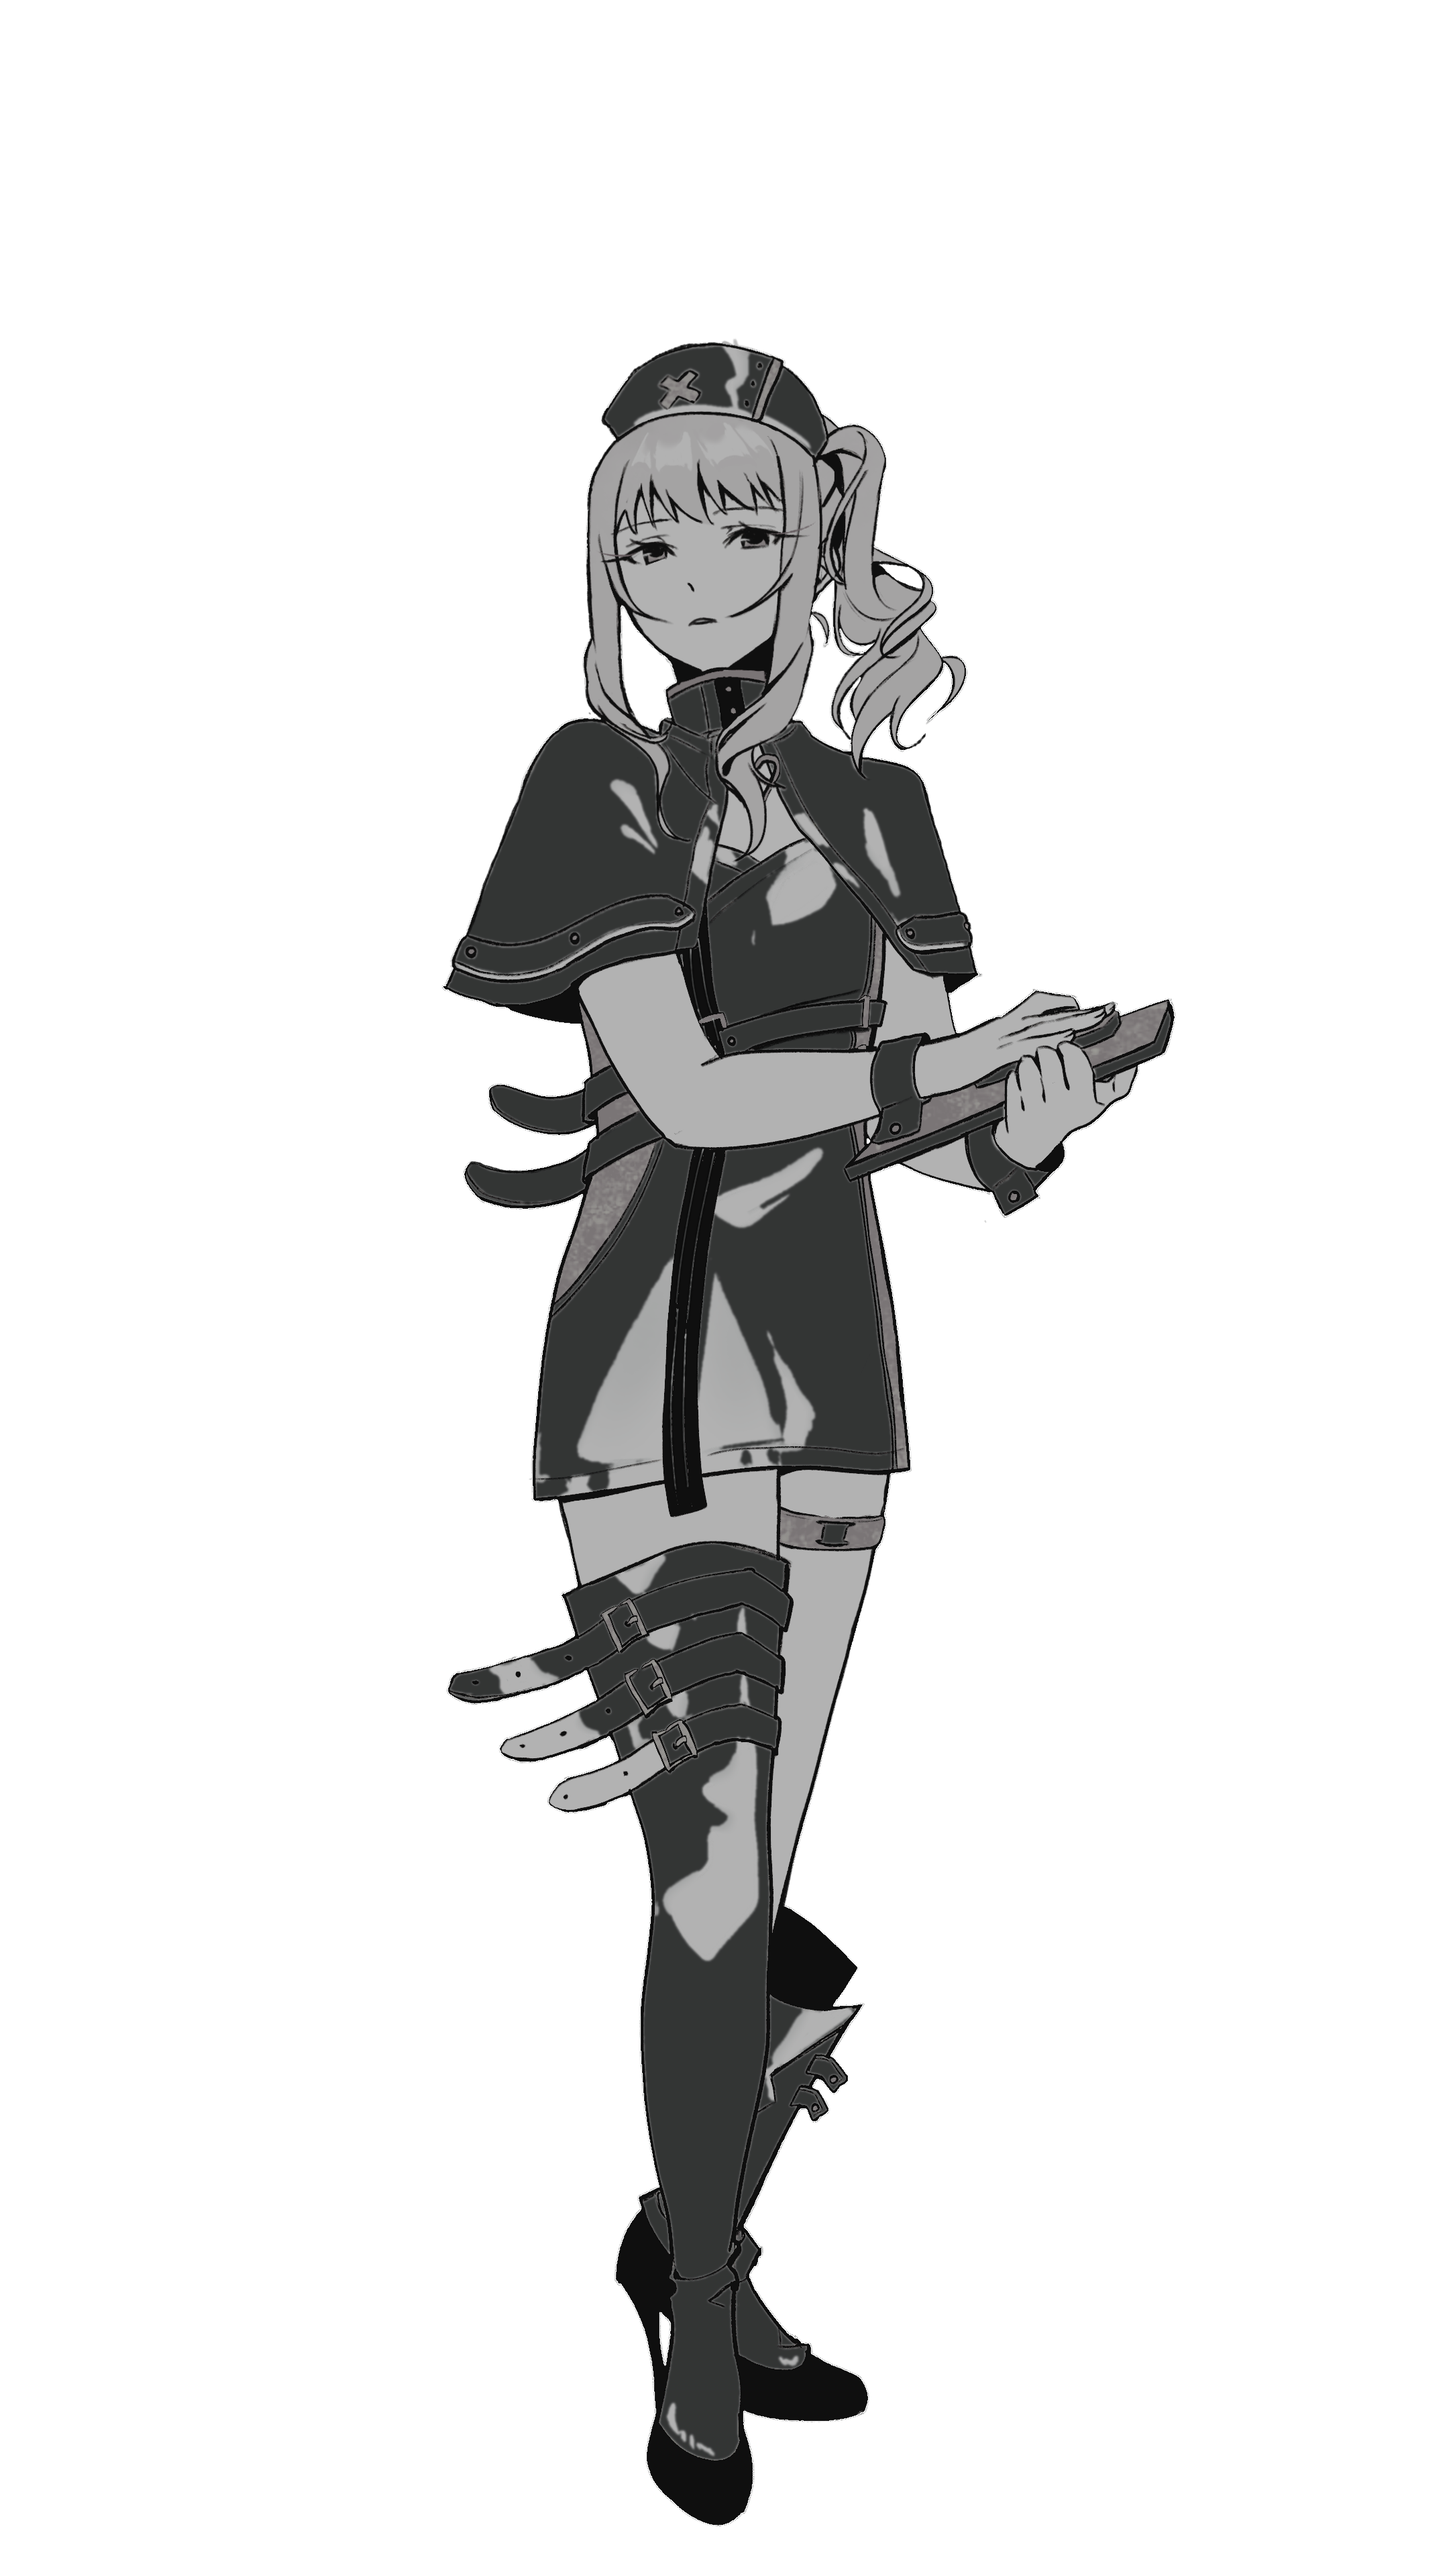
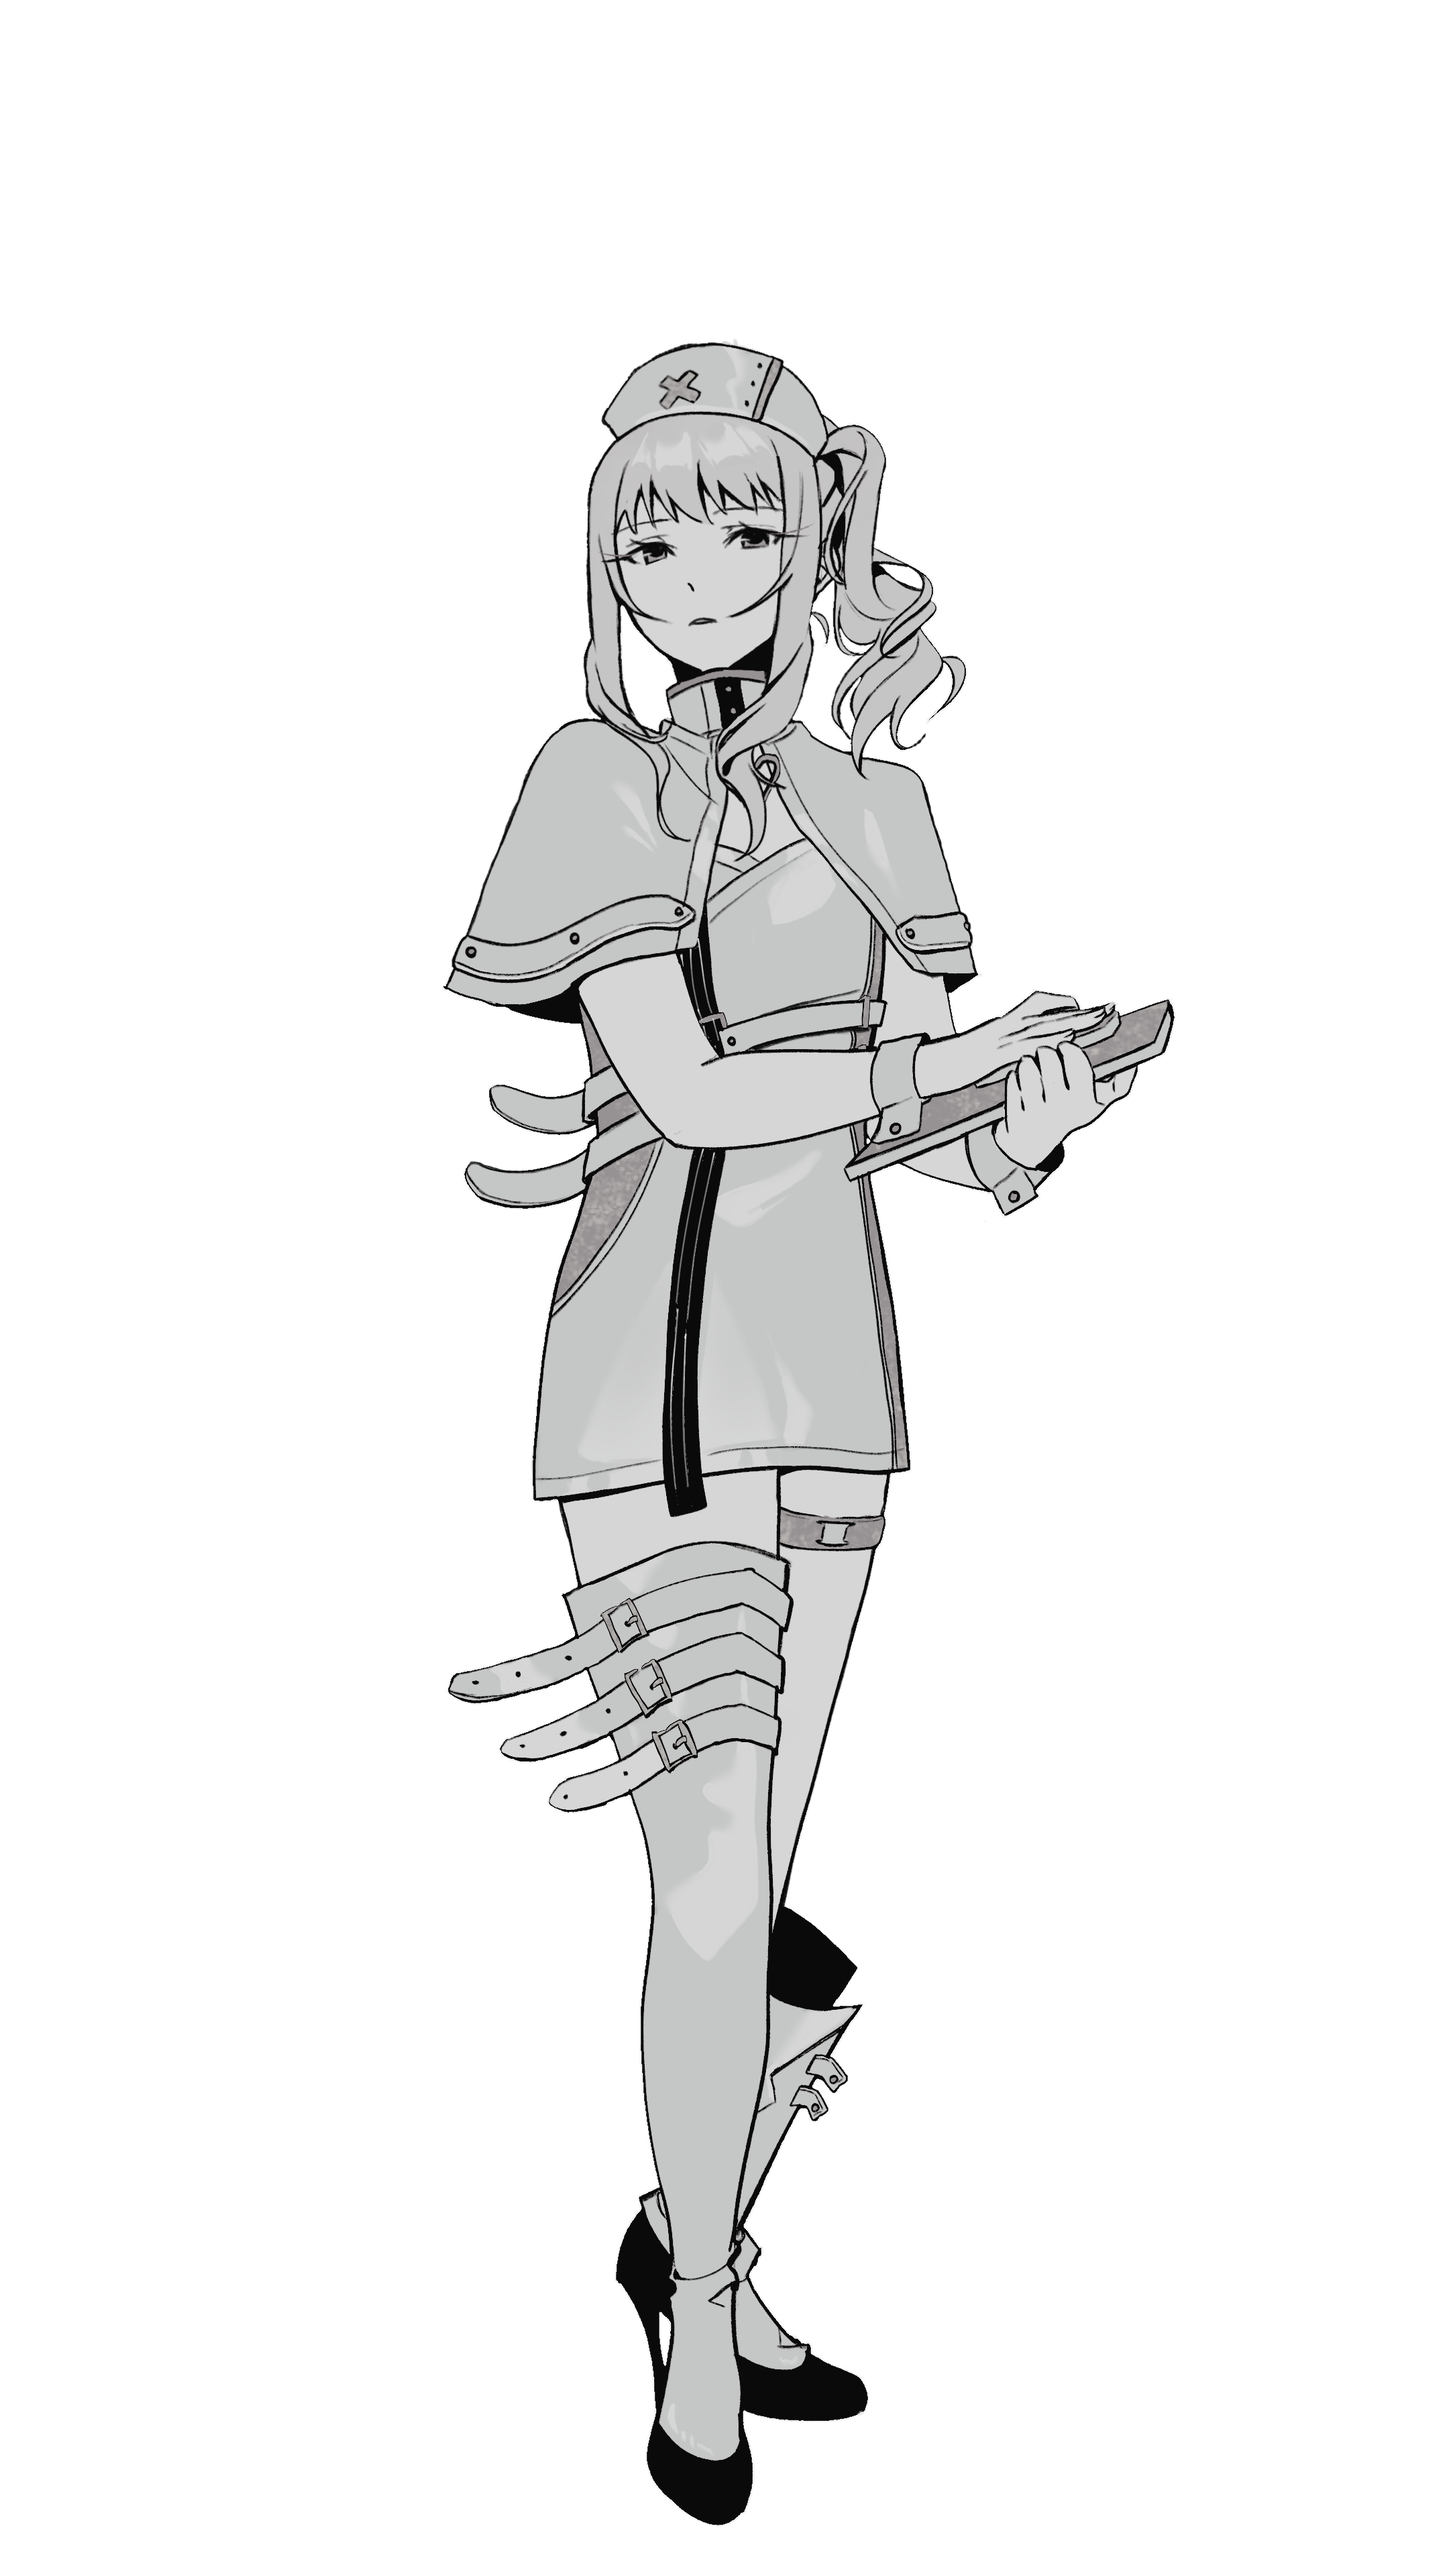
Intro: garments keep their own tone; darker wall for figure/background contrast; lyrics moved onto the wall; contrast metric + spike-based cut detection
Claude-Session: https://claude.ai/code/session_015Tjs1iXMuiLWLL16YXiPW9

Changed region(s): [[0.3102, 0.125, 0.8065, 0.9688]]

diff --git a/web/v2/engine.js b/web/v2/engine.js
@@ -99,7 +99,7 @@ function drawThread2(ctx, shot, cr, t) {
 function drawWall(ctx, shot, cr) {
   const img = shot.dof ? A2.wallBlur : A2.wall;
   const z = 1.0 + 0.06 * cr.k, dx = -180 - 120 * cr.k * (shot.pan || 1), dy = -120;
-  ctx.fillStyle = shot.dark ? "#5e6061" : shot.keyLight ? "#76787a" : "#8a8c8d"; ctx.fillRect(-100, -100, W + 200, H + 200);       // wall_gray token
+  ctx.fillStyle = shot.dark ? "#5e6061" : shot.keyLight ? "#55575a" : "#8a8c8d"; ctx.fillRect(-100, -100, W + 200, H + 200);       // wall_gray token
   ctx.save(); ctx.globalCompositeOperation = "overlay"; ctx.globalAlpha = 0.75;
   ctx.drawImage(img, dx, dy, 2400 * z, 1350 * z); ctx.restore();
 }
@@ -202,14 +202,14 @@ function buildScenes() {
         { t0: s(8), t1: 20.0, layers: [N()], c0: [1050, 880, 1560], c1: [1042, 868, 1460], keyLight: true, longShadow: true, r0: 0.3, r1: -0.2, fx: ["leak"] },
       ],
       text: {
-        1: { lvl: "A", layout: "vert", x: 1080, y: 345, size: 29, cols: ["僕は最上最愛の"], holdUntil: 2 },
-        2: { lvl: "A", layout: "vert", x: 1080 - 29 * 1.3, y: 345, size: 29, gap: 1.3, cols: ["この世界に産み落とされた", "モンスター"] },
-        3: { lvl: "A", layout: "vert", x: 1080, y: 345, size: 29, gap: 1.3, cols: ["そこは", "従順傀儡の"] },
-        4: { lvl: "A", layout: "vert", x: 1430, y: 345, size: 29, gap: 1.3, cols: ["嫌な時代に", "振り落とされたもんだ"] },
-        5: { lvl: "A", layout: "vert", x: 1430, y: 345, size: 29, gap: 1.3, cols: ["赤い糸を", "放ったスパイダー"] },
-        6: { lvl: "A", layout: "vert", x: 1225, y: 345, size: 29, cols: ["予想通り絡まるハンター"], holdUntil: 7 },
-        7: { lvl: "A", layout: "vert", x: 1225 - 29 * 1.3, y: 345, size: 29, gap: 1.3, cols: ["どうか", "一生淡々と"] },
-        8: { lvl: "A", layout: "vert", x: 1480, y: 345, size: 29, gap: 1.3, cols: ["生きるだけの", "理由をください", "ドクター"] },
+        1: { lvl: "A", layout: "vert", x: 470, y: 345, size: 29, cols: ["僕は最上最愛の"], holdUntil: 2 },
+        2: { lvl: "A", layout: "vert", x: 470 - 29 * 1.3, y: 345, size: 29, gap: 1.3, cols: ["この世界に産み落とされた", "モンスター"] },
+        3: { lvl: "A", layout: "vert", x: 470, y: 345, size: 29, gap: 1.3, cols: ["そこは", "従順傀儡の"] },
+        4: { lvl: "A", layout: "vert", x: 560, y: 345, size: 29, gap: 1.3, cols: ["嫌な時代に", "振り落とされたもんだ"] },
+        5: { lvl: "A", layout: "vert", x: 560, y: 345, size: 29, gap: 1.3, cols: ["赤い糸を", "放ったスパイダー"] },
+        6: { lvl: "A", layout: "vert", x: 1560, y: 345, size: 29, cols: ["予想通り絡まるハンター"], holdUntil: 7 },
+        7: { lvl: "A", layout: "vert", x: 1560 - 29 * 1.3, y: 345, size: 29, gap: 1.3, cols: ["どうか", "一生淡々と"] },
+        8: { lvl: "A", layout: "vert", x: 1590, y: 345, size: 29, gap: 1.3, cols: ["生きるだけの", "理由をください", "ドクター"] },
       } },
     { type: "title_card_shadow", t0: 20.0, t1: 34.14 },
     { type: "hud_portrait", t0: 34.14, t1: s(13),

diff --git a/tools/measure.py b/tools/measure.py
@@ -18,6 +18,7 @@ def measure(path, ss=0.0, dur=20.0):
     vis_ratio = float(vis.mean())
     mean_all = float(F.mean())
     mean_vis = float(np.mean([f[v].mean() for f, v in zip(F, vis) if v.any()]))
+    contrast = float(np.mean([f[v].std() for f, v in zip(F, vis) if v.any()]))     # global contrast (std of luminance)
     d = np.abs(np.diff(F, axis=0)).mean(axis=(1, 2))        # frame-to-frame difference (raw, grain included)
     # cut = low correlation between consecutive blurred 24x(h) thumbnails of the picture area (grain-proof)
     def thumb(f, v):
@@ -25,11 +26,20 @@ def measure(path, ss=0.0, dur=20.0):
         hh, ww = a.shape; a = a[: hh - hh % 6, : ww - ww % 20].reshape(6, (hh - hh % 6) // 6, 20, (ww - ww % 20) // 20).mean(axis=(1, 3))
         return (a - a.mean()) / (a.std() + 1e-3)
     T = [thumb(f, v) for f, v in zip(F, vis)]
+    def thumb_raw(f, v):
+        a = f[v] if v.any() else f
+        hh, ww = a.shape; return a[: hh - hh % 6, : ww - ww % 20].reshape(6, (hh - hh % 6) // 6, 20, (ww - ww % 20) // 20).mean(axis=(1, 3))
     corr = [float((T[i] * T[i + 1]).mean()) for i in range(len(T) - 1)]
     lit = [bool(v.any()) for v in vis]
     cuts = sum(1 for i, c in enumerate(corr) if lit[i] and lit[i + 1] and c < 0.5)
-    cut_at = [round((i + 1) / 2, 1) for i, c in enumerate(corr) if lit[i] and lit[i + 1] and c < 0.5]
-    return dict(cut_times=cut_at, frames=len(F), mean_visible=round(mean_vis, 1), mean_whole=round(mean_all, 1), visible_ratio=round(vis_ratio, 3),
+    # second rule: a spike in thumbnail difference far above its neighbours (catches cuts between similar-looking shots)
+    raw = [thumb_raw(f, v) for f, v in zip(F, vis)]
+    td = np.array([np.abs(raw[i + 1] - raw[i]).mean() for i in range(len(raw) - 1)])
+    spike = set(i for i in range(len(td)) if lit[i] and lit[i + 1] and td[i] > 20 and td[i] > 4 * np.median(np.delete(td[max(0, i - 3): i + 4], min(i, 3))))
+    corr_cut = set(i for i, c in enumerate(corr) if lit[i] and lit[i + 1] and c < 0.5)
+    idx = sorted(corr_cut | spike); cuts = len(idx)
+    cut_at = [round((i + 1) / 2, 1) for i in idx]
+    return dict(cut_times=cut_at, frames=len(F), mean_visible=round(mean_vis, 1), mean_whole=round(mean_all, 1), visible_ratio=round(vis_ratio, 3), contrast=round(contrast, 1),
                 cuts=cuts, diffs=[round(float(x), 1) for x in d])
 
 if __name__ == "__main__":

diff --git a/tools/prep_v2.py b/tools/prep_v2.py
@@ -50,8 +50,8 @@ def desat(im, s=0.12):
     L = rgb @ np.array([0.299, 0.587, 0.114], np.float32)
     garment = ((hue > 140) & (hue < 260) & (sat > 0.07)).astype(np.float32)          # jacket, uniform, IV fluid
     garment = np.asarray(Image.fromarray((garment * 255).astype(np.uint8)).filter(ImageFilter.GaussianBlur(1.5)), np.float32) / 255
-    Lt = 0.06 + 0.64 * L ** 1.3                                                     # low contrast, whites -> ~0.77
-    Lt = Lt * (1 - 0.68 * garment)                                                   # garments near black
+    Lt = 0.04 + 0.80 * L ** 1.15                                                     # low contrast, whites -> ~0.77
+    # garments keep their own value (no extra darkening)
     out = Lt[..., None] + (rgb - L[..., None]) * s * 0.6
     o = Image.fromarray((out.clip(0, 1) * 255).astype(np.uint8)); o.putalpha(im.getchannel("A")); return o
 for name in ("patient", "nurse"):
